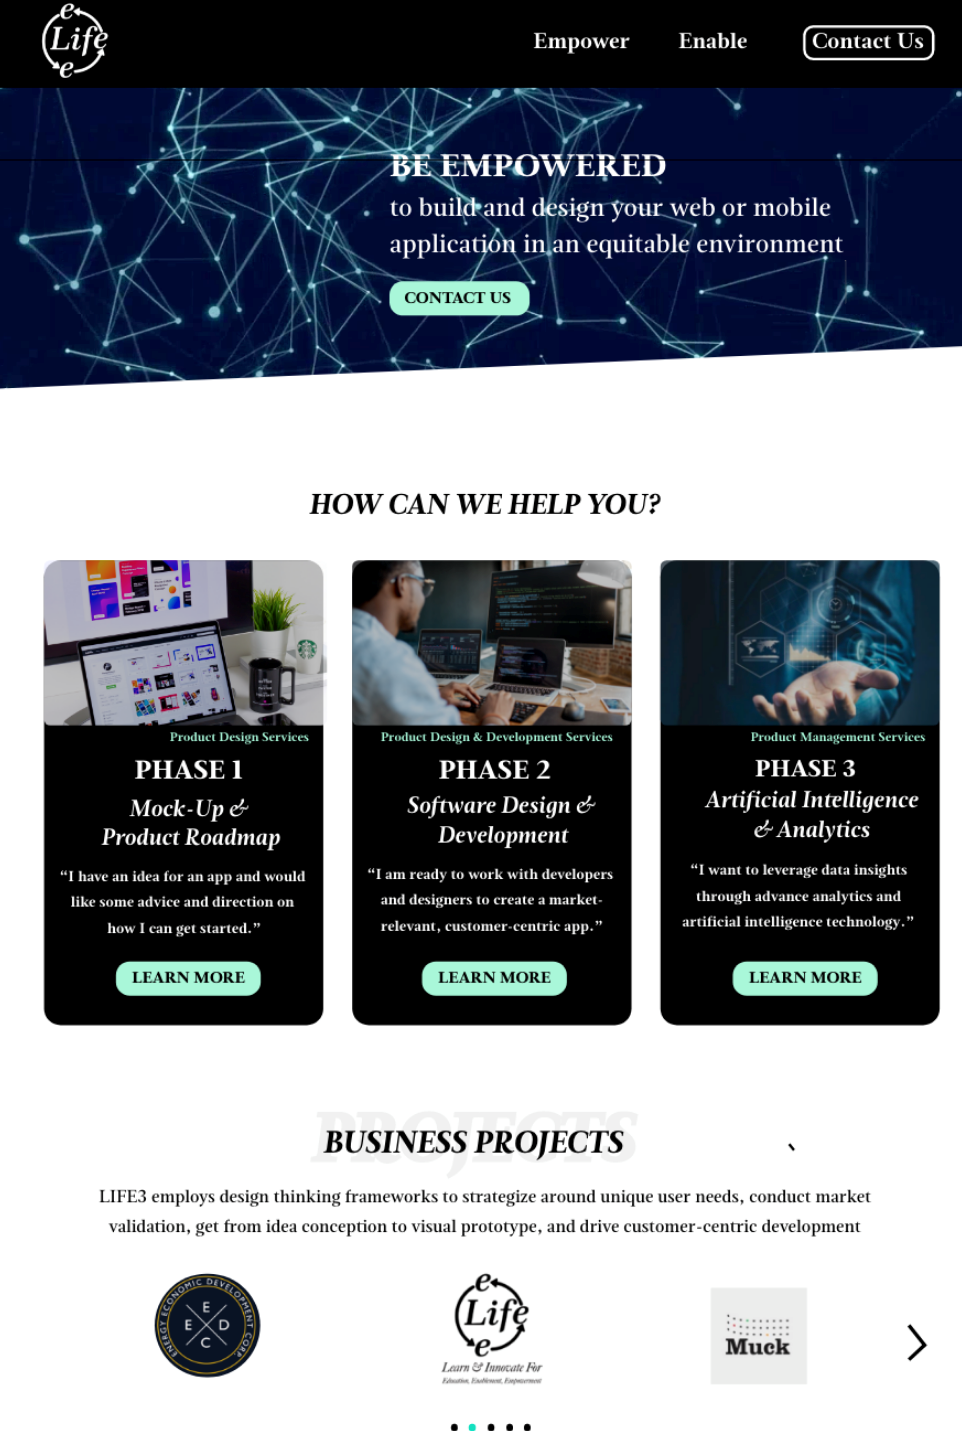
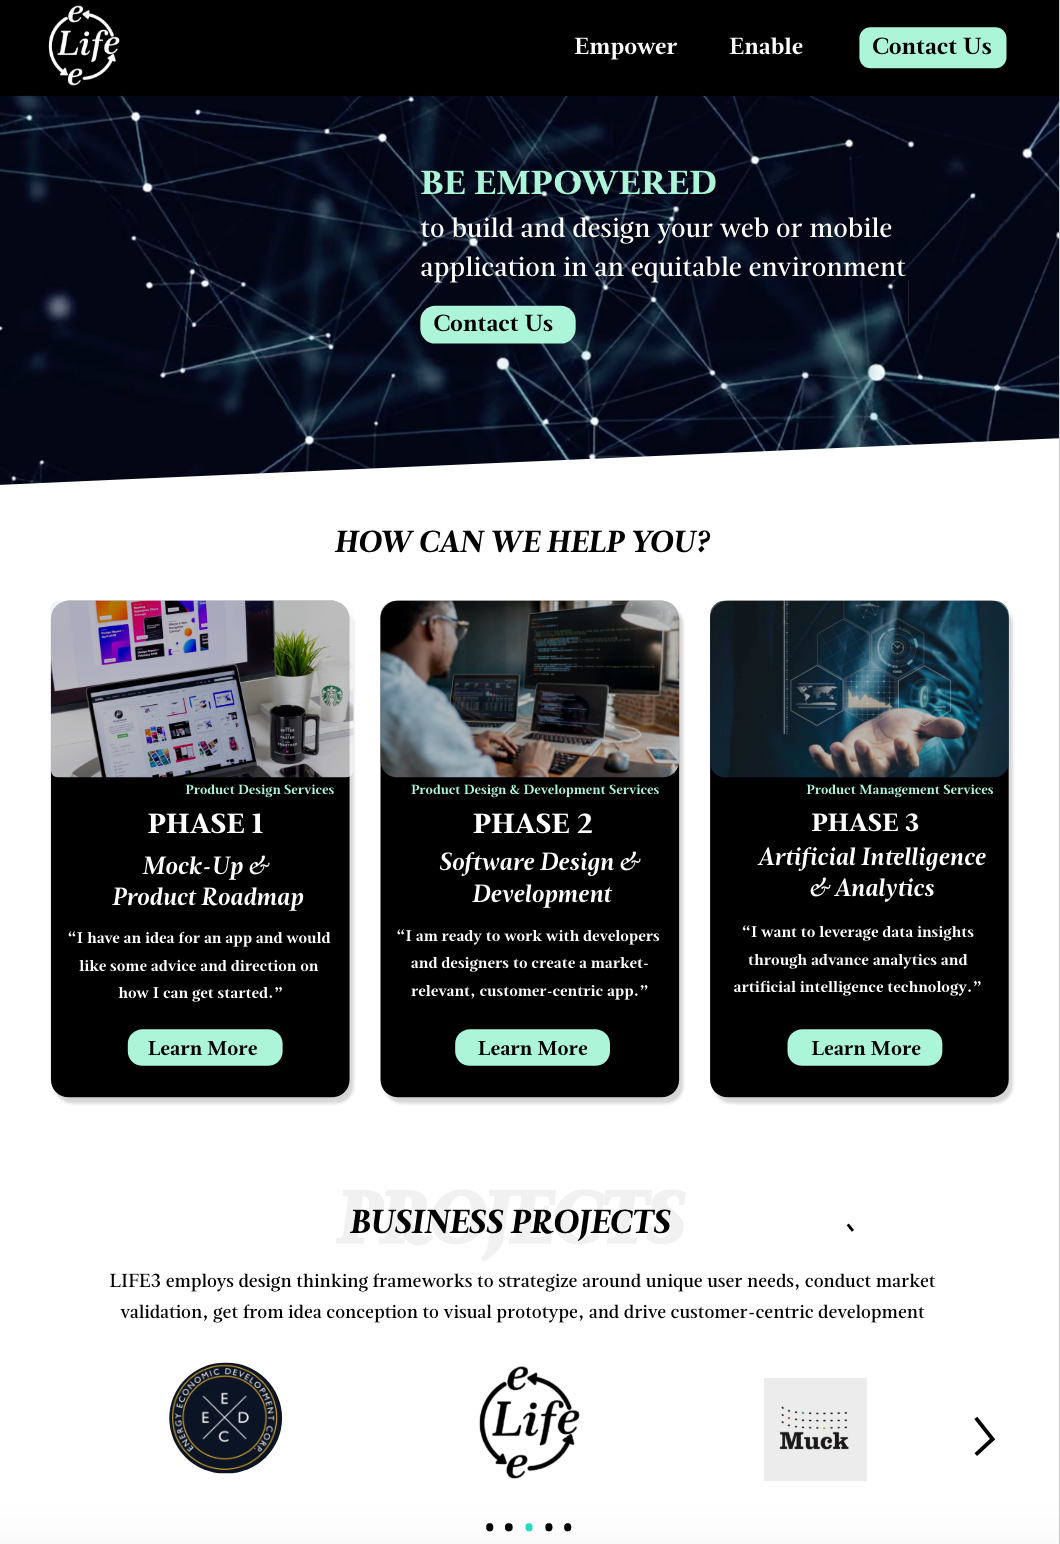
few details updated and css media queries updated

diff --git a/CSS/styles.css b/CSS/styles.css
@@ -57,7 +57,7 @@ table {
 
 /* Nav Bar Stylings */
 header {
-    height: 50vh;
+    height: 60vh;
     /* width: 100vw; */
     /* padding-top: 10vh; */
     display: flex;
@@ -83,7 +83,6 @@ header .navBar {
     box-shadow: 0px 0px 5px 5px black;
     justify-content: flex-end;
     margin-left: auto;
-    padding-right: 13vw;
 }
 
 header .navBar.hide {
@@ -162,7 +161,7 @@ header .contactUsButton {
 video {
     position: absolute; 
     z-index: -9999; 
-    height: 50%;
+    height: 60%;
     width: 100%;
     object-fit: fill;
 }
@@ -179,6 +178,8 @@ video {
 .banner h1 {
     font-weight: 900;
     line-height: 2;
+    color: mediumaquamarine;
+    margin-top: 5%;
 }
 .banner h2 {
     font-weight: 500;
@@ -201,7 +202,7 @@ header .enableBanner {
     background-repeat: no-repeat;
     background-position: center;
     background-size: cover;
-    background-image: url("../Assets/Images/Banner/Homepage image.png");
+    background-image: url("../Assets/Images/Banner/e's background image.png");
     background-color: black;
 }
 .enableBanner .bannerContent {
@@ -211,6 +212,7 @@ header .enableBanner {
 }
 .enableBanner h1 {
     line-height: 2;
+    color: mediumaquamarine;
 }
 .enableBanner h2 {
     line-height: 1.5;
@@ -306,7 +308,7 @@ header .enableBanner {
     flex-direction: column;
     justify-content: space-around;
     text-align: center;
-    margin: 5vh 2vw 0;
+    margin: 5vh 2vw;
 }
 
 .mainInfo h1 {
@@ -445,7 +447,7 @@ header .enableBanner {
 }
 
 .projectLightBox .partnerLogo{
-    height: 200px;
+    height: 150px;
     width: auto;
     margin: 10px;
     text-align: center;
@@ -457,7 +459,7 @@ header .enableBanner {
 .about {
     background-image: url("../Assets/Images/Banner/We\ enable\ background\ image.png");
     width: 100%;
-    height: 80vh;
+    height: 70vh;
     background-size: cover;
     align-items: center;
     justify-content: center;
@@ -496,6 +498,7 @@ header .enableBanner {
     text-transform: uppercase;
     text-align: right;
     font-weight: 700;
+    text-decoration: underline;
 }
 /* End About Section Stylings */
 
@@ -875,6 +878,11 @@ footer .socialMediaContainer .socialMediaIcon:hover {
     font-size: 1.3rem;
 
 }
+.projectLightBox .nextProject p{
+    text-decoration: underline;
+    color: black;
+    margin:10px 0;
+}
 .lightBox .teamContainer {
     align-items: center;
     margin: 2em;
@@ -968,7 +976,7 @@ footer .socialMediaContainer .socialMediaIcon:hover {
     h2, footer h2, header .navBar, .projectInformation .testimonial p {
         font-size: 2rem;
     }
-    p, li, footer p, .aboutTeam .teamProfiles figure figcaption p {
+    .testimonialsContentInfo p, p, li, footer p, .aboutTeam .teamProfiles figure figcaption p {
         font-size: 1.5rem;
     }
     .about p {
@@ -1022,9 +1030,12 @@ footer .socialMediaContainer .socialMediaIcon:hover {
     h2, header .navBar, footer .contactUsContainer h3, .projectInformation .testimonial p,.servicesTable th h2 {
         font-size: 1.5rem;
     }
-    .about p, p, li, footer p, .aboutTeam .teamProfiles figure figcaption p {
+    .testimonialsContentInfo p,.about p, p, li, footer p, .aboutTeam .teamProfiles figure figcaption p {
         font-size: 1.5rem;
     }
+    /* .contactUsButton p{
+        font-size: 1rem;
+    } */
     .teamProfileImage{
         width: 80px;
         height: 80px;
@@ -1154,20 +1165,33 @@ footer .socialMediaContainer .socialMediaIcon:hover {
     .banner h2{
         font-size: 1.5rem;
     }
-    .aboutUs p,.mainInfo h2{
-        font-size: 1.2rem;
-        line-height: 1.5;
+    .aboutContent p,.mainInfo h2{
+        font-size: 1.5rem;
+        line-height: 2;
     }
-    button{
+    button {
         width: 150px;
         height: 30px;
         font-size: 1rem;
     }
-    h1{
+    h1 {
         font-size: 2.3rem;
+    }
+    .bannerContent h1 {
+        margin-top: 200px;
+    }
+    .banner h1 {
+        margin-top: 100px;
     }
     .about .aboutUs {
         font-size: 3rem;
+        padding-top: 150px;
+    }
+    .about h1 {
+        padding-top: 20%;
+    }
+    .about .aboutContent {
+        width: 70%;
     }
     header .navBar .navLinkText .mainInfo{
         font-size: 1.3rem;
@@ -1221,9 +1245,6 @@ footer .socialMediaContainer .socialMediaIcon:hover {
     }
     footer .contactUsForm {
         width: 90%;
-    }
-    .projectLightBox .phase {
-        width: 80%;
     }
 
 }
@@ -1297,8 +1318,8 @@ footer .socialMediaContainer .socialMediaIcon:hover {
     h2, header .navBar, footer .contactUsContainer h3, .projectInformation .testimonial p {
         font-size: .8rem;
     }
-    .partners p, p, li, footer p, .aboutTeam .teamProfiles figure figcaption p {
-        font-size: 1rem;
+    .testimonialsContentInfo p, .partners p, p, li, footer p, .aboutTeam .teamProfiles figure figcaption p {
+        font-size: 0.8rem;
     }
     .phasesTable th {
         font-size: .8rem;
@@ -1392,7 +1413,7 @@ footer .socialMediaContainer .socialMediaIcon:hover {
 
 @media (max-height:650px) {
     video{
-        height: 60%;
+        height: 50%;
     }
     .aboutImage {
         width: 50%;
@@ -1463,6 +1484,9 @@ footer .socialMediaContainer .socialMediaIcon:hover {
 
 
 @media (max-width: 450px), (max-height: 550px) {
+    .navBar button{
+        width: 100px;
+    }
     video{
         height: 70vh;
     }
@@ -1483,10 +1507,10 @@ footer .socialMediaContainer .socialMediaIcon:hover {
     .banner{
         margin: 80px 0 0 40px;
     }
-    .banner h1{
+    .banner h1, .bannerContent h1 {
         font-size: 2rem;
     }
-    .banner h2{
+    .banner h2, .bannerContent p{
         font-size: 1rem;
     }
     .aboutImage .img{
@@ -1520,6 +1544,9 @@ footer .socialMediaContainer .socialMediaIcon:hover {
         padding: 0;
         font-size: 2rem;
     }
+    .testimonials h1, .diverseContentInfo h1 {
+        font-size: 2rem;
+    }
     .mainInfo p,h2, .projectLightBox .phase h2 {
         margin-left: 0;
         padding: 0;
@@ -1540,13 +1567,13 @@ footer .socialMediaContainer .socialMediaIcon:hover {
         height: 70vh;
         width: 100vw;
     }
-    h1, footer h1 {
+    h1, footer h1, .testimonials h3 {
         font-size: 1rem;
     }
     h2, header .navBar, footer .contactUsContainer h3, .projectInformation .testimonial p {
         font-size: .8rem;
     }
-    .projectLightBox p, p, li, footer p, .aboutTeam .teamProfiles figure figcaption p {
+    .testimonialsContentInfo p,.projectLightBox p, p, li, footer p, .aboutTeam .teamProfiles figure figcaption p {
         font-size: .8rem;
         /* line-height: 1rem; */
     }
@@ -1576,6 +1603,27 @@ footer .socialMediaContainer .socialMediaIcon:hover {
     .mainInfo .mainInfoContainer{
         display: flex;
         flex-direction: column;
+    }
+    .projectLightBox .phaseContainer {
+        display: flex;
+        flex-direction: column;
+    }
+    .projectLightBox .phase {
+        width: 70%;
+    }
+    .testimonialsHead img {
+        height: 100px;
+        width: 100px;
+    }
+    .testimonials h2 {
+        font-size: 1.3rem;
+    }
+    .testimonials h3 {
+        font-size: 0.8rem;
+    }
+    .projectLightBox .teamProfileImage {
+        width: 80px;
+        height: 80px;
     }
 }
 

diff --git a/index.html b/index.html
@@ -39,7 +39,7 @@
                         <a class="navLink navLinkText" href="Pages/empower.html">Empower</a>
             <a class="navLink navLinkText" href="Pages/enable.html">Enable</a>
             <!-- <a class="navLink navLinkText" href="Pages/signin.php">Educate</a> -->
-            <!-- <a href="#contactUs"><button class="contactUsButton"><p>Contact Us</p></button></a> -->
+            <a href="#contactUs"><button class="navLink navLinkText">Contact Us</button></a>
         </nav>
          
         <video autoplay muted loop>
@@ -141,7 +141,7 @@
         <div class = "aboutContent">
             <h1>WE ENABLE</h1>
             <p>equity of underrepresented groups in technology-focused careers and entrepreneurial ventures.</p>
-            <a href=""><p class="click">learn more <strong>&rarr;</strong></p></a>
+            <a href="Pages/enable.html"><p class="click">learn more</p></a>
         </div>
 
     </div>
@@ -279,9 +279,10 @@
             </div>
 
             <div class="nextProject">
-                <img class="partnerLogo" src="Assets/Images/Icons/life3developLogo.png" alt="LIFE3 Logo" title="LIFE3"> 
+                <a><p>2019 Website Release</p></a>
+                <img class="partnerLogo" src="Assets/Images/Icons/mucktracker.png" alt="Mucktraker Logo" title="MuckTracker">
                 <br>
-                <button>2019 TIME TRAVEL</button>
+                <button>Next Project</button>
             </div>
         </div>
     </div>

diff --git a/Pages/empower.html b/Pages/empower.html
@@ -16,7 +16,7 @@
                 title="LIFE3"></img></a>
             <a class="navLink navLinkText" href="empower.html">Empower</a>
             <a class="navLink navLinkText" href="enable.html">Enable</a>
-            <a href="#contactUs"><button class="contactUsButton"><p>Contact Us</p></button></a>
+            <a href="#contactUs"><button class="navLink navLinkText"><p>Contact Us</p></button></a>
         </nav>
 
         <div class="enableBanner">
@@ -53,7 +53,7 @@
                         target="_blank">Business Projects</a></h1>
             </div>
             
-            <div class="partnerLogosContainer" height=400px;>
+            <div class="partnerLogosContainer">
                 <figure id="mucktracker" class="partnerLogo">
                     <img src="../Assets/Images/Icons/mucktracker.png" alt="Mucktraker Logo" title="MuckTracker">
                     <div class= "partnerLogoNames" >

diff --git a/Pages/enable.html b/Pages/enable.html
@@ -16,7 +16,7 @@
                 title="LIFE3"></img></a>
             <a class="navLink navLinkText" href="empower.html">Empower</a>
             <a class="navLink navLinkText" href="enable.html">Enable</a>
-            <a href="#contactUs"><button class="contactUsButton"><p>Contact Us</p></button></a>
+            <a href="#contactUs"><button class="navLink navLinkText"><p>Contact Us</p></button></a>
         </nav>
 
         <div class="enableBanner">
